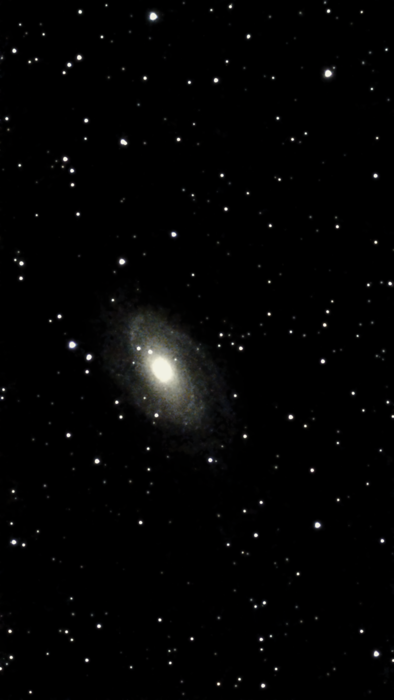
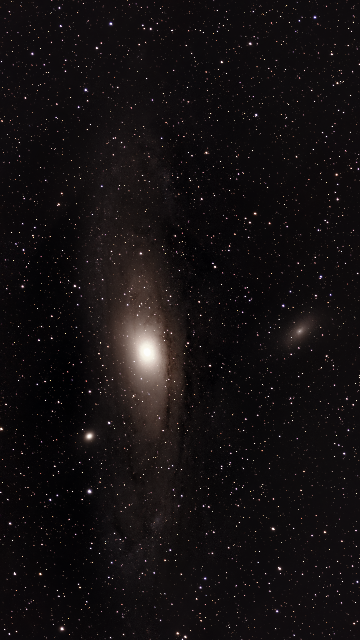
Update landing page comparison images

diff --git a/DeepSky/app/web_app.py b/DeepSky/app/web_app.py
@@ -306,6 +306,22 @@ def _landing_html() -> str:
           </article>
           <article class="slider">
             <div class="compare" style="--pos: 50%">
+              <img src="/static/landing/spiral_before.png" alt="Before spiral galaxy processing">
+              <img class="after" src="/static/landing/spiral_after.png" alt="After spiral galaxy processing">
+              <div class="handle"></div>
+            </div>
+            <input type="range" min="0" max="100" value="50" aria-label="Compare spiral galaxy before and after">
+          </article>
+          <article class="slider">
+            <div class="compare" style="--pos: 50%">
+              <img src="/static/landing/galaxies_before.png" alt="Before galaxy pair processing">
+              <img class="after" src="/static/landing/galaxies_after.png" alt="After galaxy pair processing">
+              <div class="handle"></div>
+            </div>
+            <input type="range" min="0" max="100" value="50" aria-label="Compare galaxy pair before and after">
+          </article>
+          <article class="slider">
+            <div class="compare" style="--pos: 50%">
               <img src="/static/landing/cluster_before.png" alt="Before Orion Nebula processing">
               <img class="after" src="/static/landing/cluster_after.png" alt="After Orion Nebula processing">
               <div class="handle"></div>